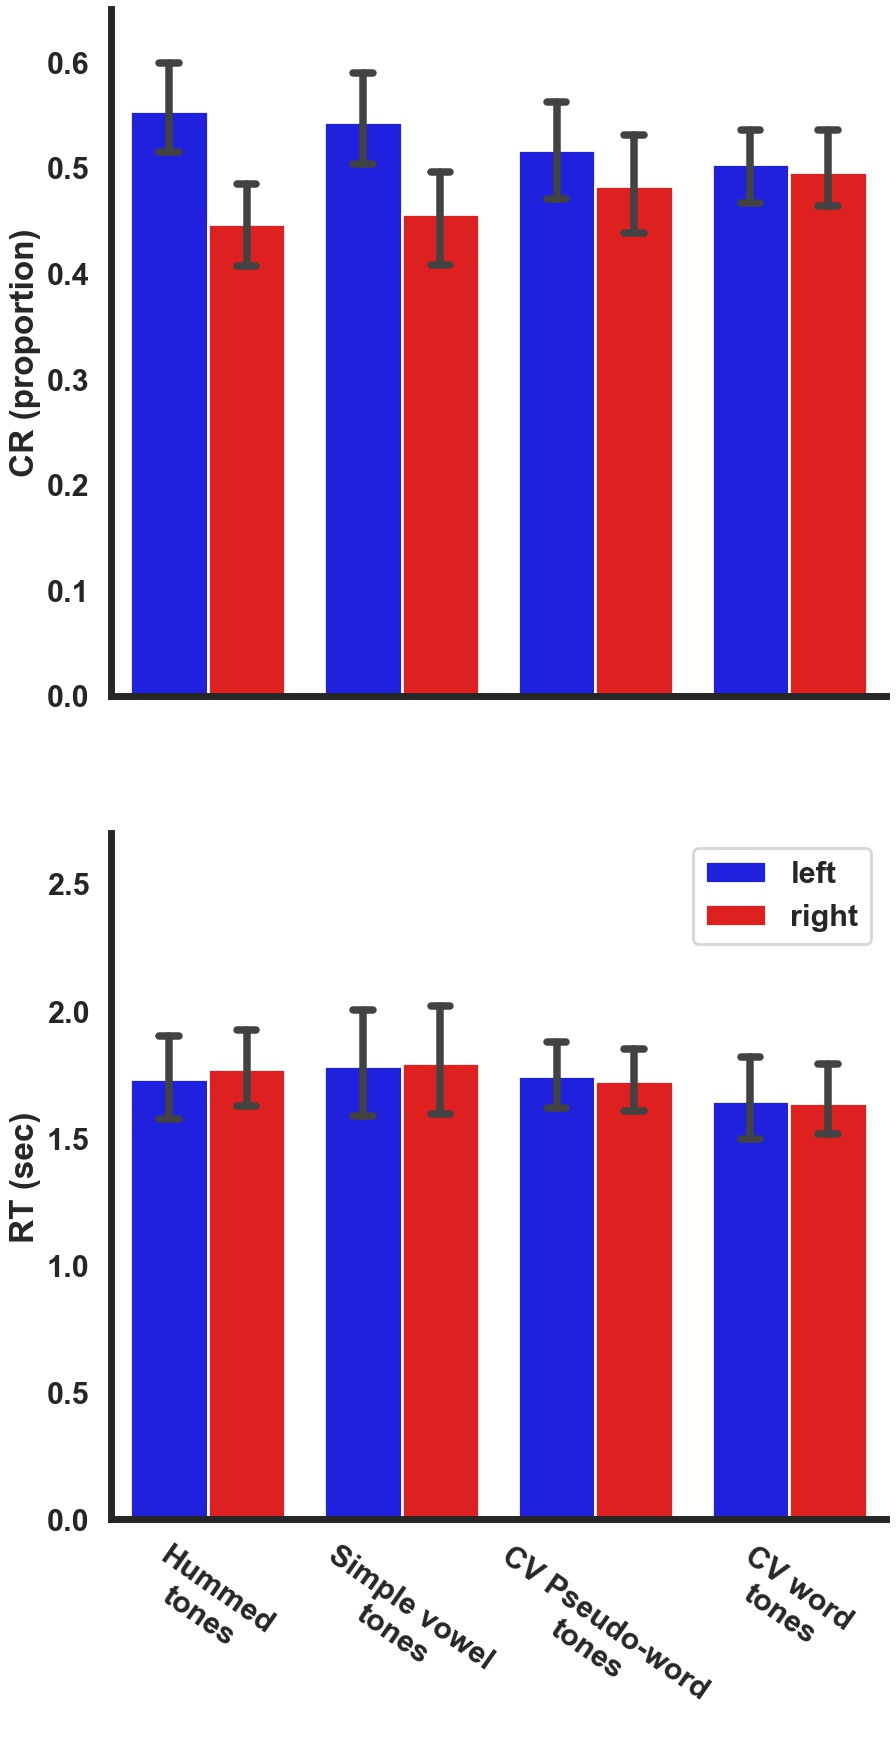
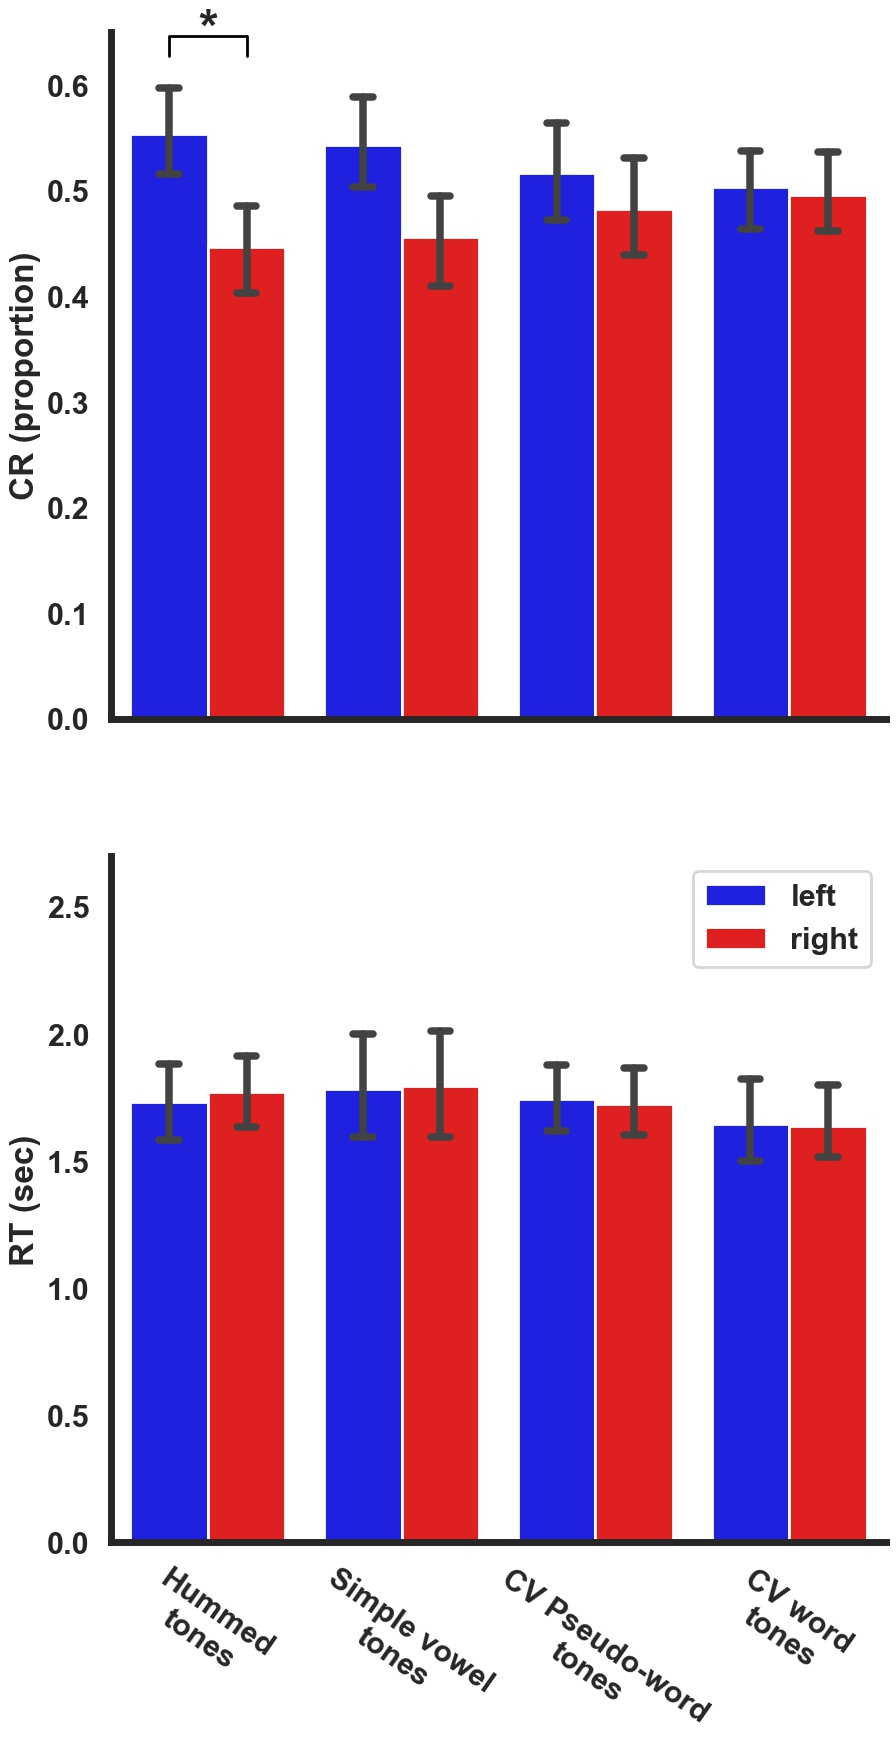
update

diff --git a/scripts/2.response_results.py b/scripts/2.response_results.py
@@ -219,6 +219,22 @@ post_4['sig']   = post_4['p-unc'].apply(star)
 post_4          = post_4.sort_values('p-unc')
 print(post_4[[ 'A', 'B', 'T', 'dof','p-unc', 'p-corr','sig']].iloc[1:,:])
 
+inter_4 = dict(condition = [],
+               t = [],
+               p = [],
+               dof = [],
+               effect_size = [],)
+for condition,df_sub in df_figure_4.groupby(['condition']):
+    left = df_sub[df_sub['side']=='left']['correct_rate'].values
+    right = df_sub[df_sub['side']=='right']['correct_rate'].values
+    temp = pg.ttest(left,right,paired=True,)
+    inter_4['condition'].append(condition)
+    inter_4['t'].append(temp['T'].values[0])
+    inter_4['p'].append(temp['p-val'].values[0])
+    inter_4['dof'].append(temp['dof'].values[0])
+    inter_4['effect_size'].append(temp['cohen-d'].values[0])
+inter_4 = pd.DataFrame(inter_4)
+
 pose_side_4     = dict(condition    = [],
                        t            = [],
                        p            = [],)

diff --git a/scripts/3.plot_results.py b/scripts/3.plot_results.py
@@ -248,7 +248,14 @@ args = dict(x = 'condition',
 annotate_args = dict(xycoords='data',
                      textcoords='data',
                      arrowprops=dict(arrowstyle="-", ec='black',
-                                    connectionstyle="bar,fraction=0.02"))
+                                    connectionstyle="bar,fraction=0.3"))
+###### common arguments for adding the stars #######
+text_args = dict(weight = 'bold',
+                 horizontalalignment='center',
+                 verticalalignment='center',
+                 size = 36,)
+line_height = .625
+text_height = .65
 # response
 ax = axes[0]
 ax = sns.barplot(
@@ -263,6 +270,11 @@ ax.set(xlabel = '',
        ylabel = 'CR (proportion)',
        ylim = (0,0.65),
        )
+ax.annotate("", xy=(-.2, line_height), 
+            xytext=(.2, line_height), 
+            **annotate_args)
+ax.text(0, text_height, "*",
+       **text_args)
 ax.get_legend().remove()
 sns.despine()
 # RT
